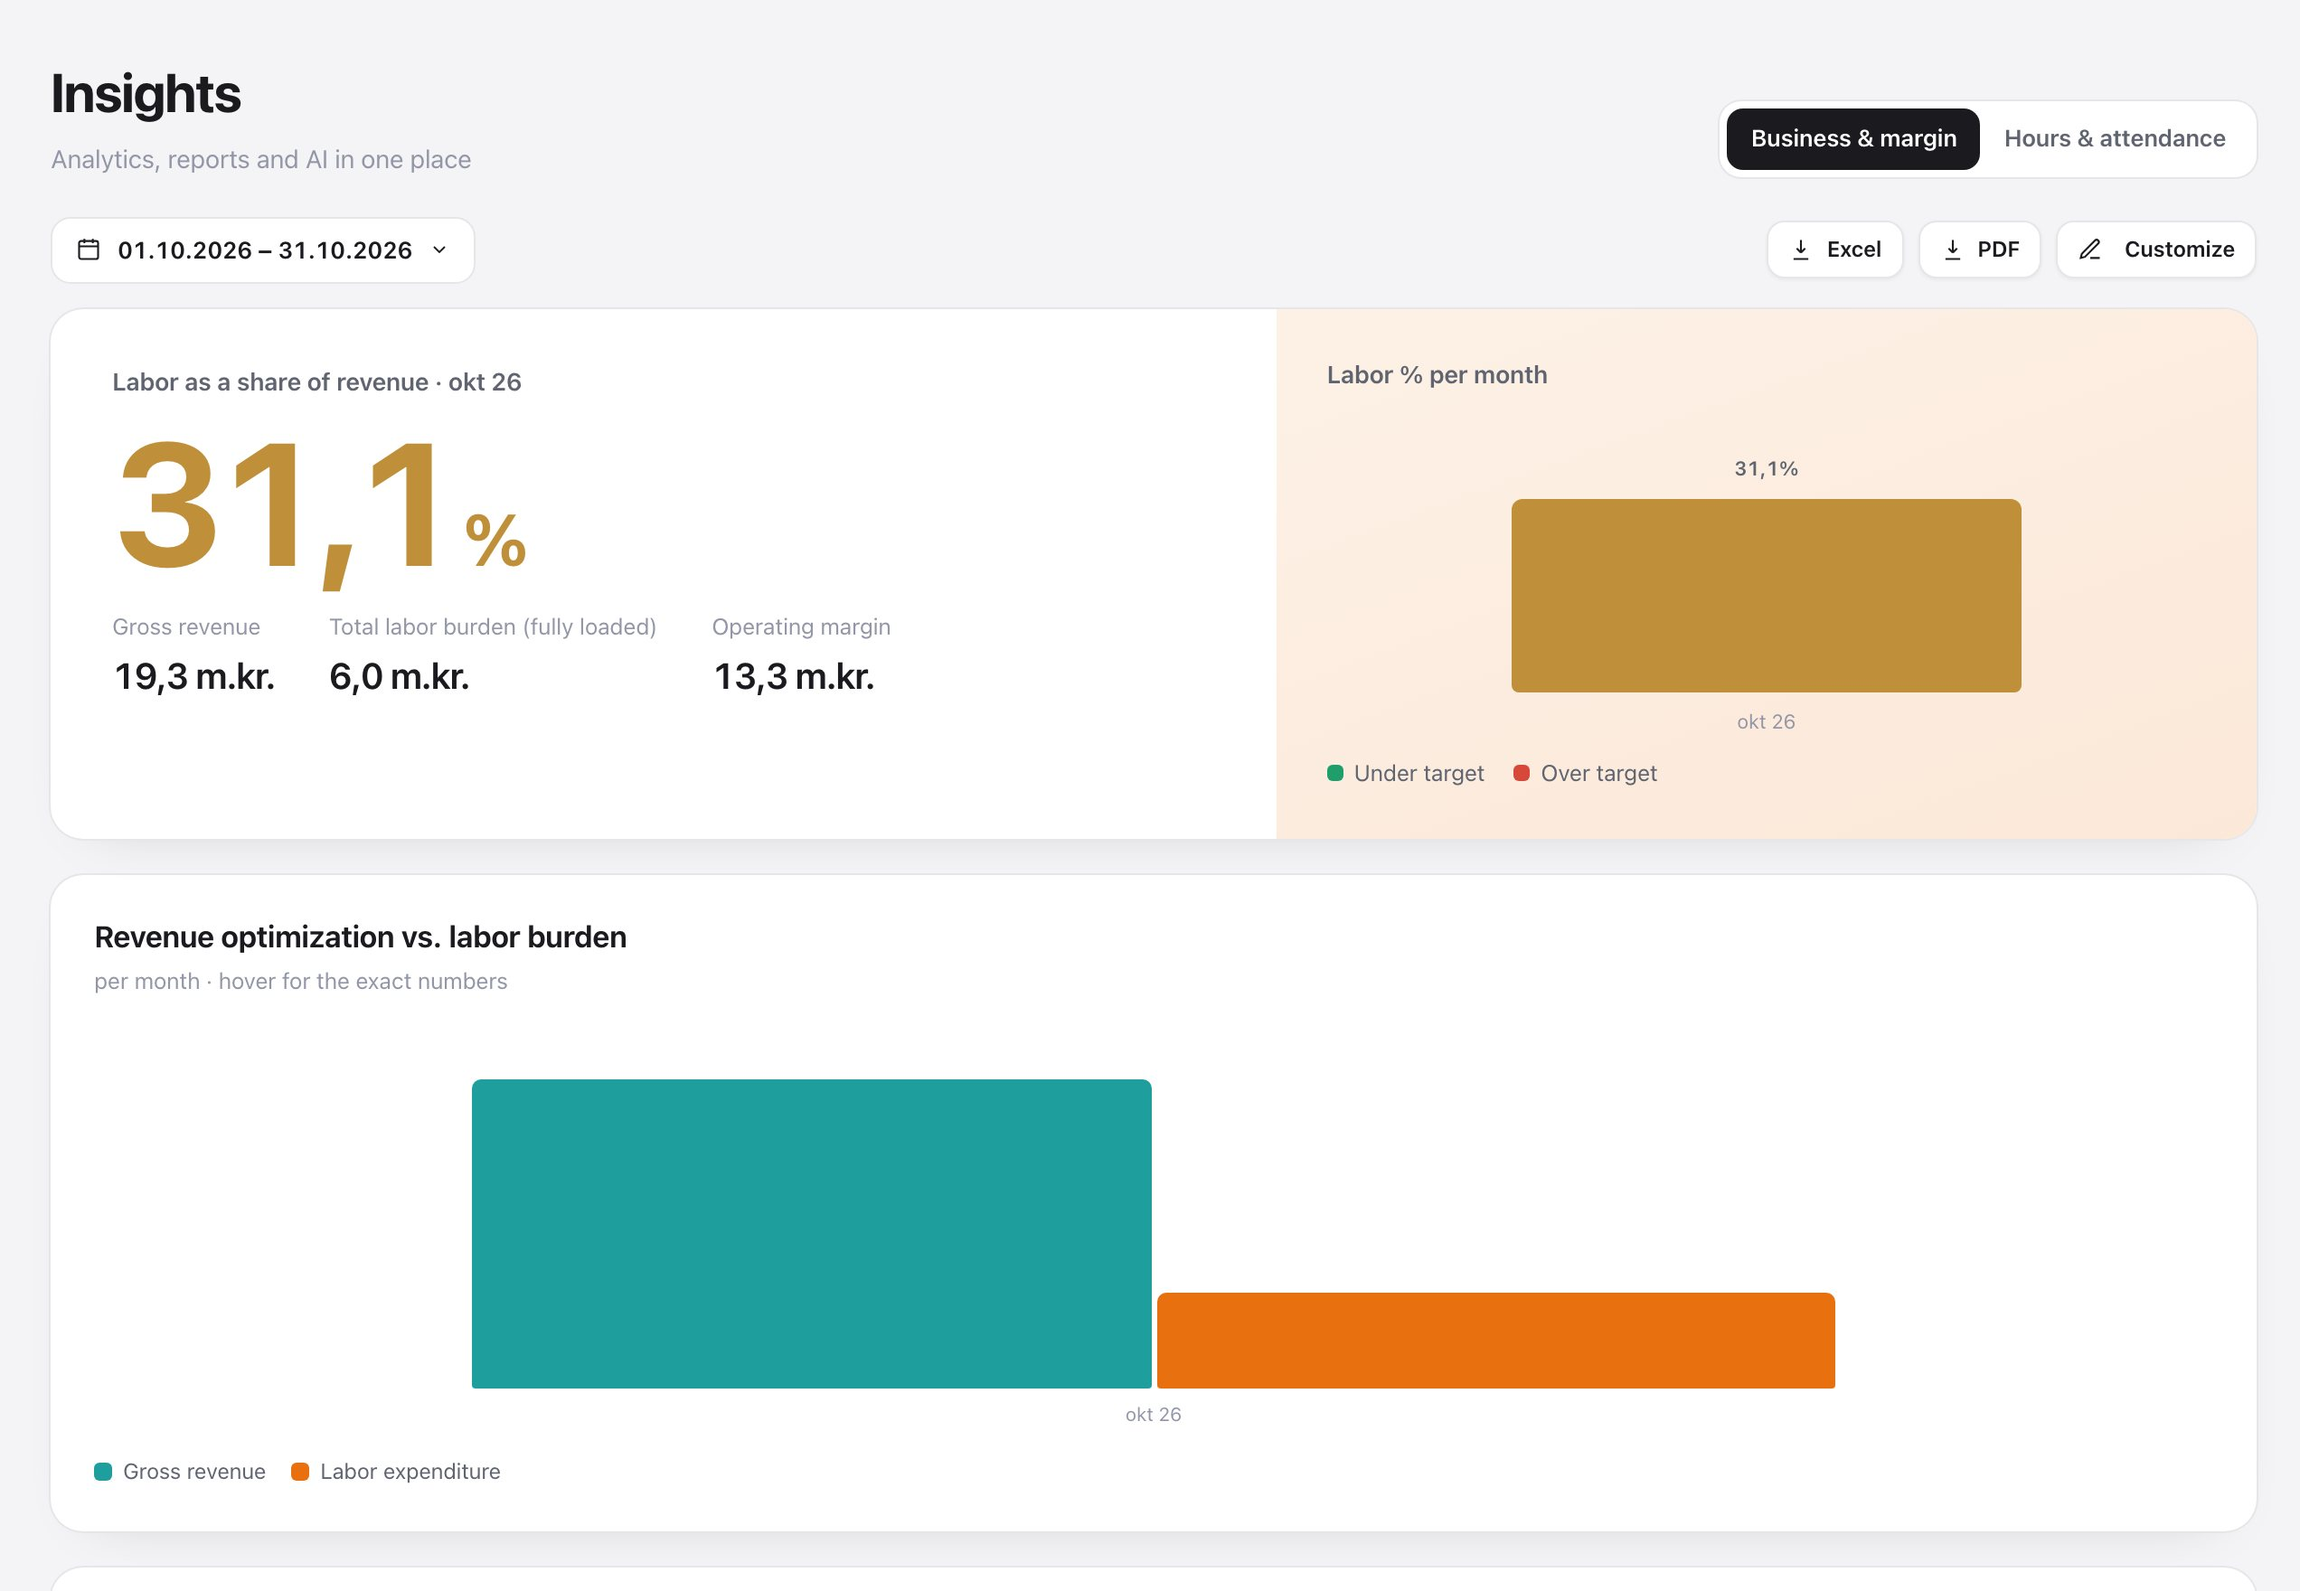
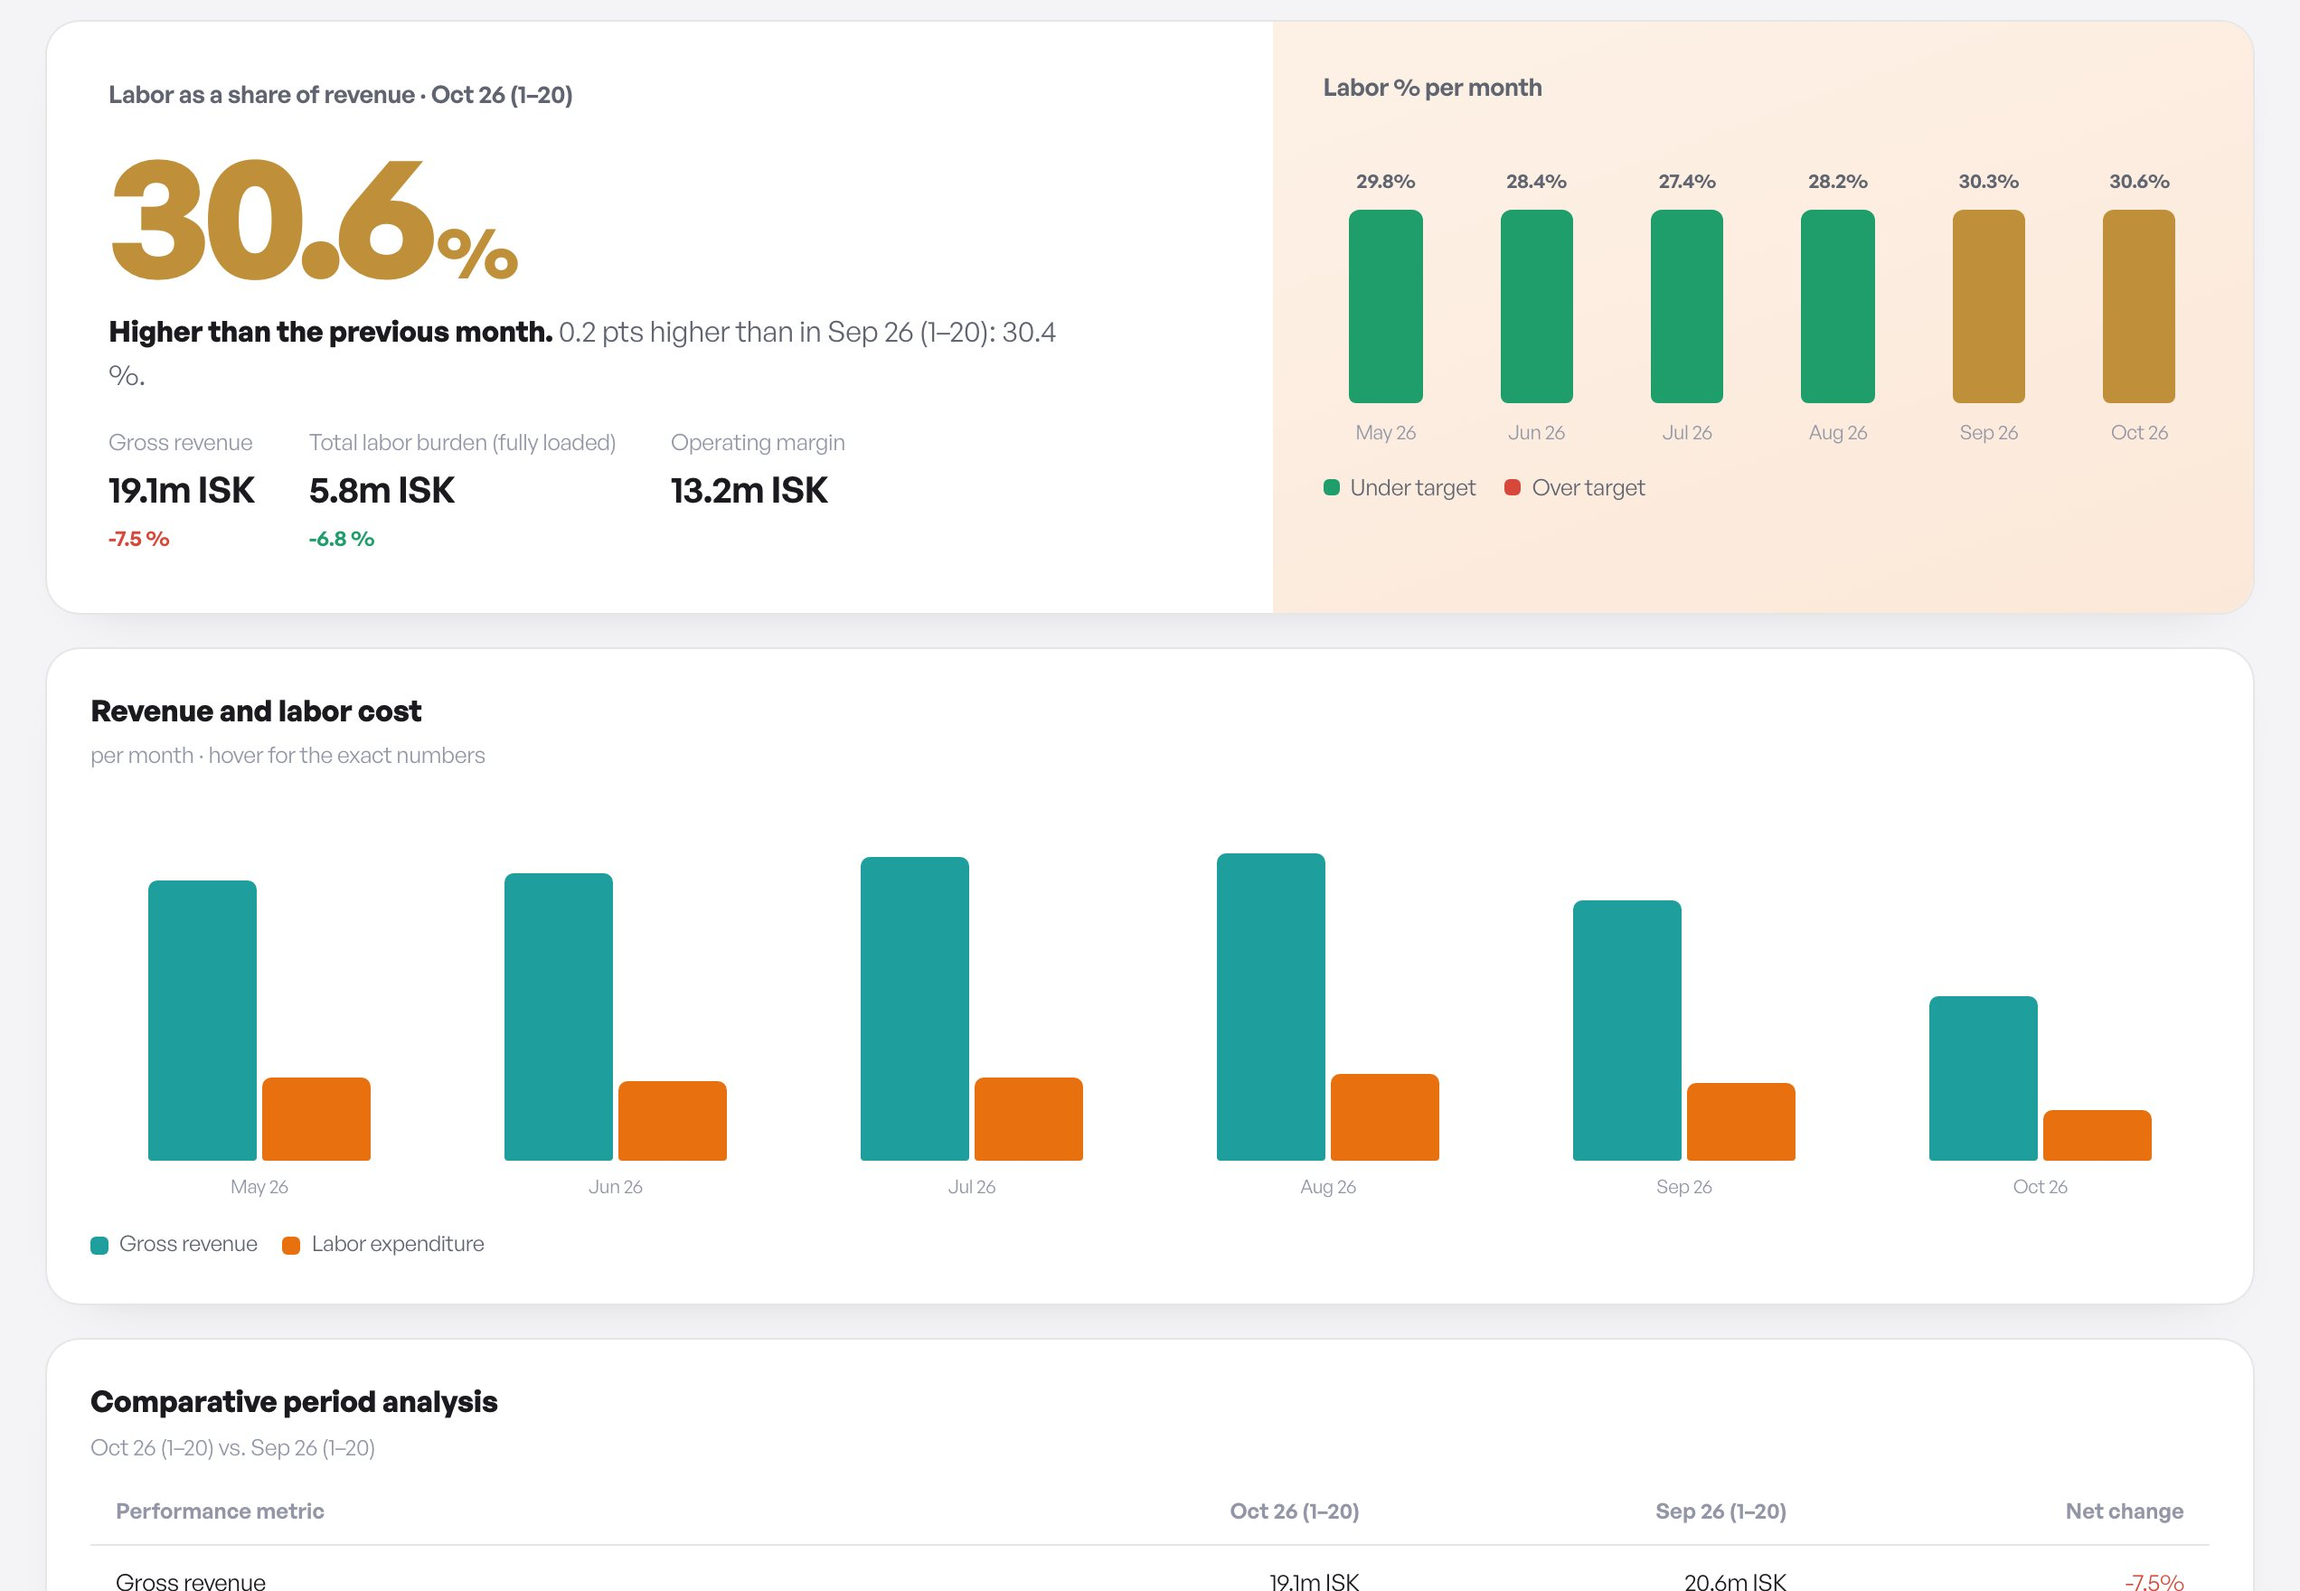
Forsíða: betri mynd á „Skýrslur sem skipta máli“
Ný skjámynd af Innsýn (Kaffi Sól, 01.05.–20.10.2026): laun% með 6
mánaðarsúlum, velta vs. launakostnaður per mánuð og samanburðartafla.
IS + EN. Í síma sést öll myndin (talan og súlurnar saman).

Claude-Session: https://claude.ai/code/session_01AK9BbtXjnmL9DhvT1wsa4a

diff --git a/src/components/site/home.css b/src/components/site/home.css
@@ -522,8 +522,9 @@ img.ah-pass-av{object-fit:cover;border:2px solid rgba(255,255,255,.55);padding:0
   .ah-slide-v{margin-top:24px}
   .ah-sl-phones .ah-phone{width:min(200px,52vw)}
   .ah-sl-shot img,.ah-sl-paper img{width:min(320px,80%)}
-  .ah-sl-wide{justify-content:flex-start;overflow:hidden;border-radius:14px 14px 0 0}
-  .ah-sl-wide img{width:175%;max-width:none;border-radius:0;box-shadow:none}
+  /* Öll myndin sýnileg: laun%-talan OG mánaðarsúlurnar eiga að sjást saman */
+  .ah-slide-v:has(>.ah-sl-wide){align-items:flex-end}
+  .ah-sl-wide img{width:100%;border-radius:12px 12px 0 0;box-shadow:0 0 0 1px rgba(0,0,0,.06),0 18px 40px -16px rgba(40,25,10,.3)}
   .ah-dark-row>div:last-child{display:none}
 }
 
